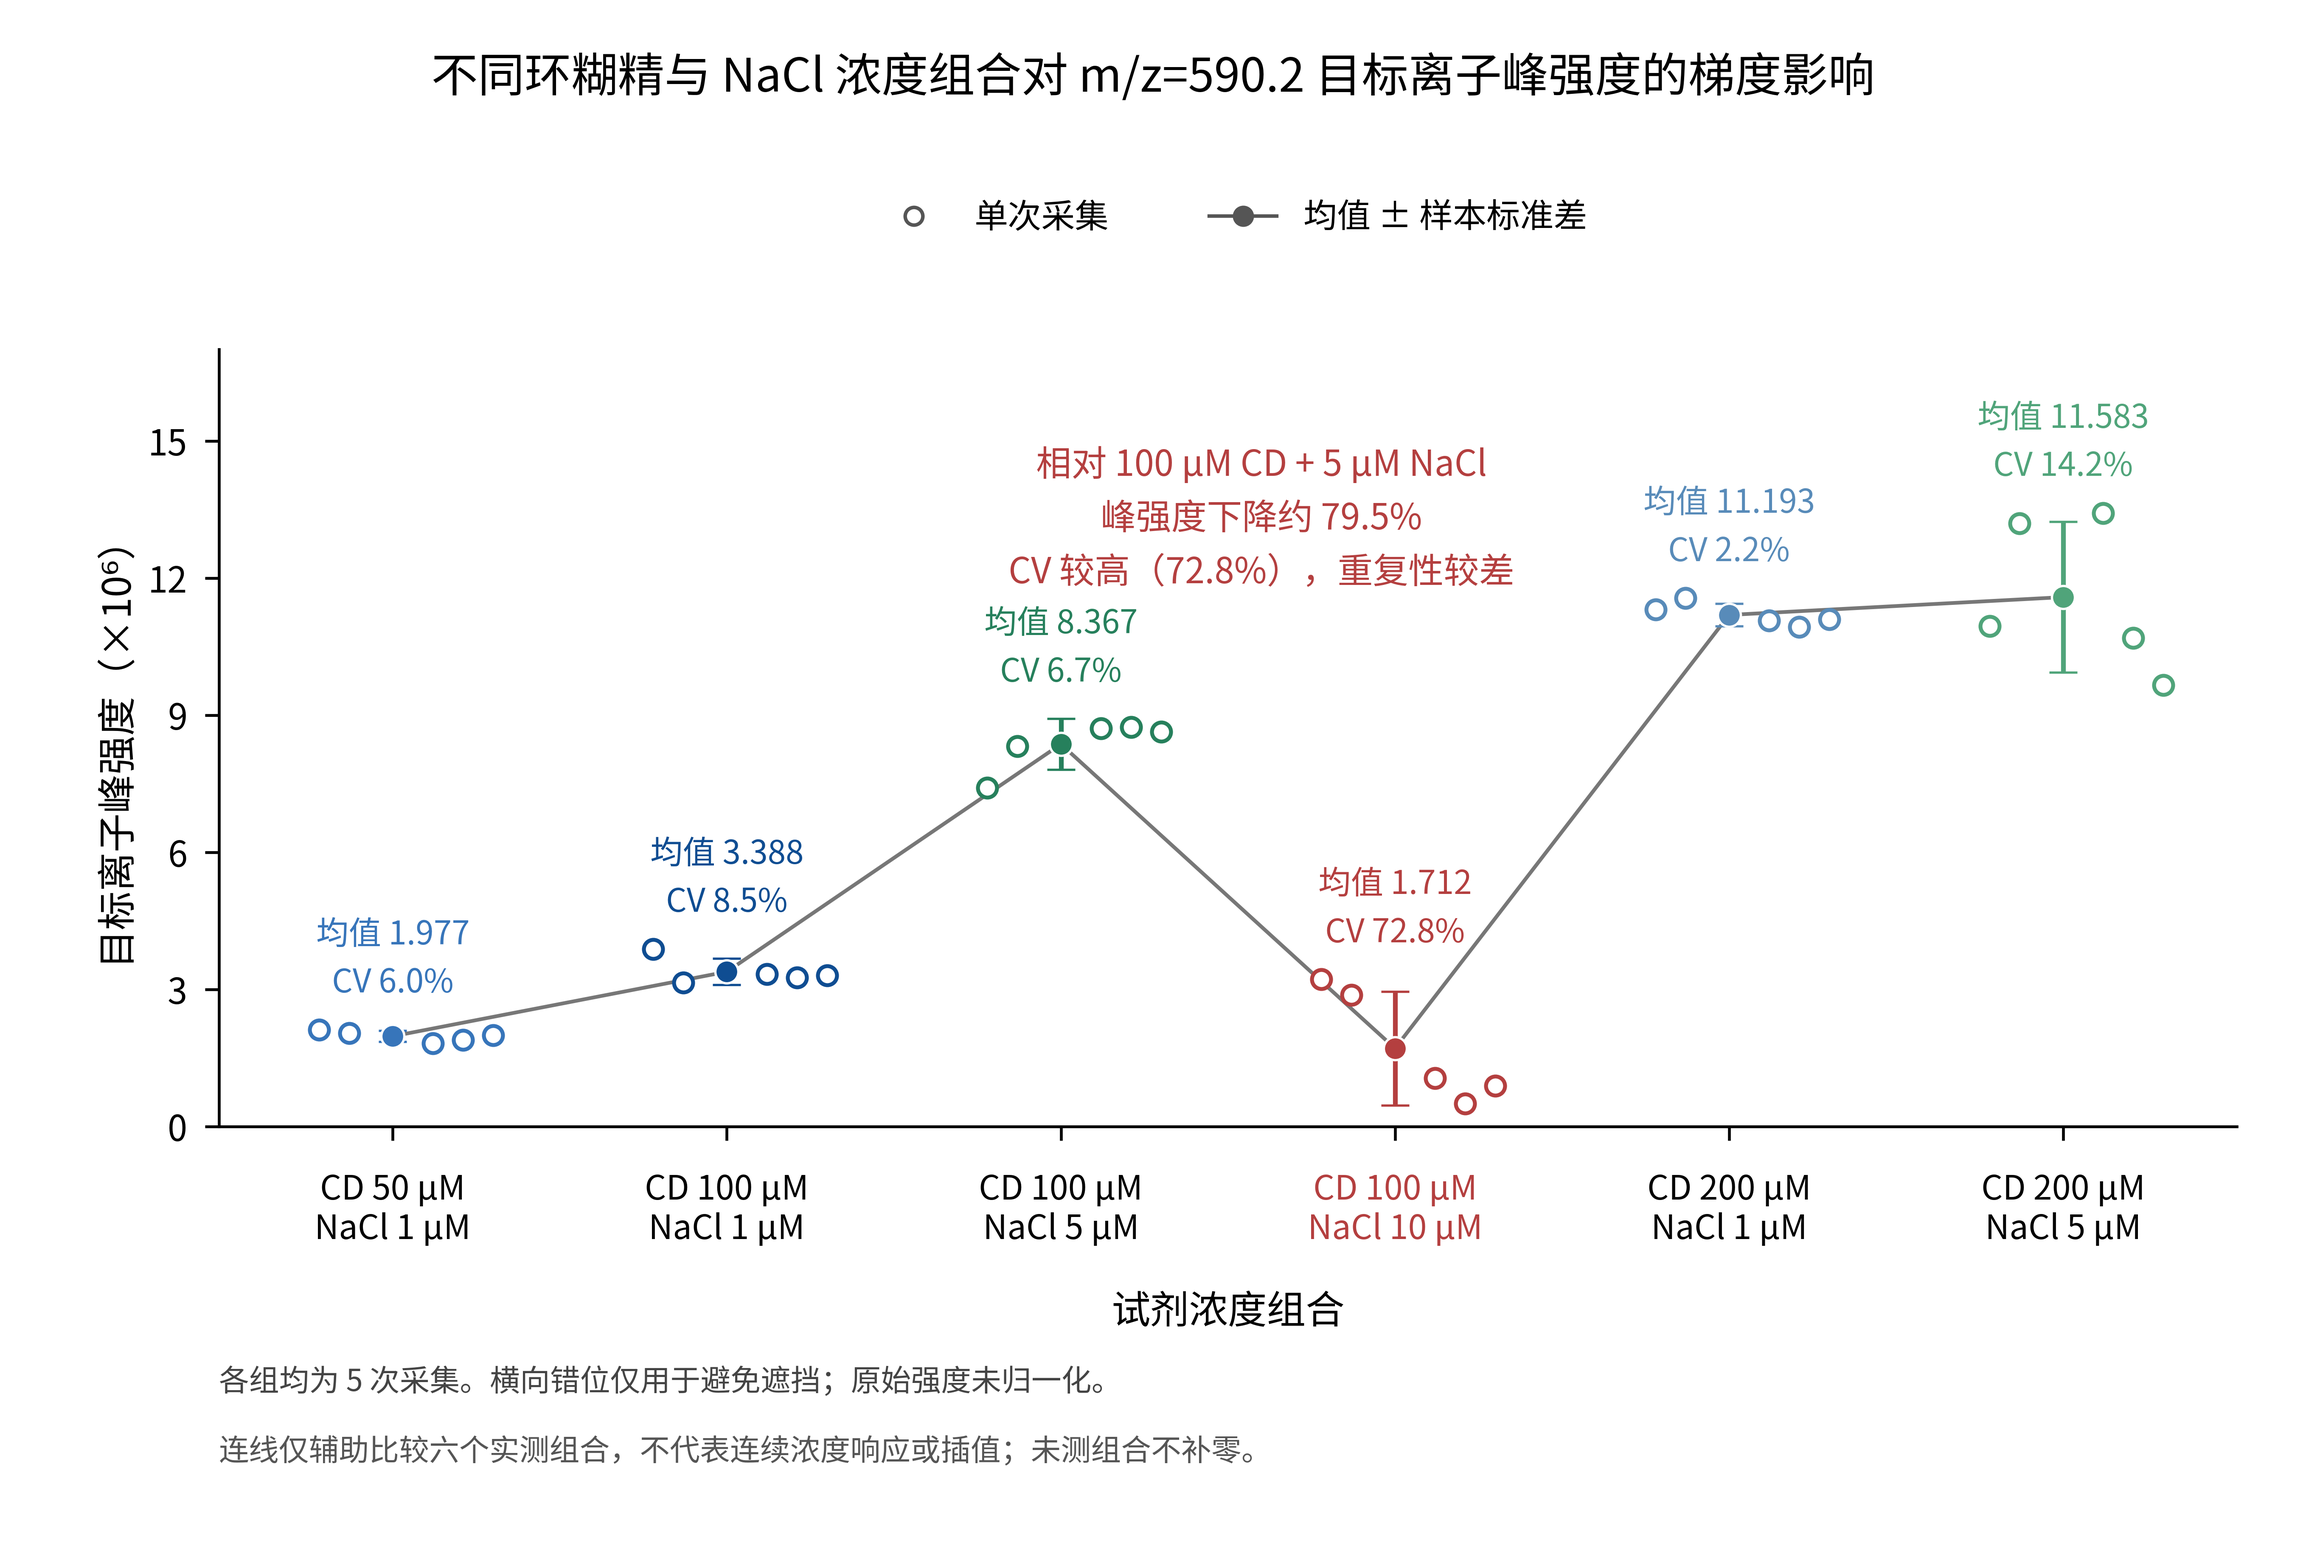
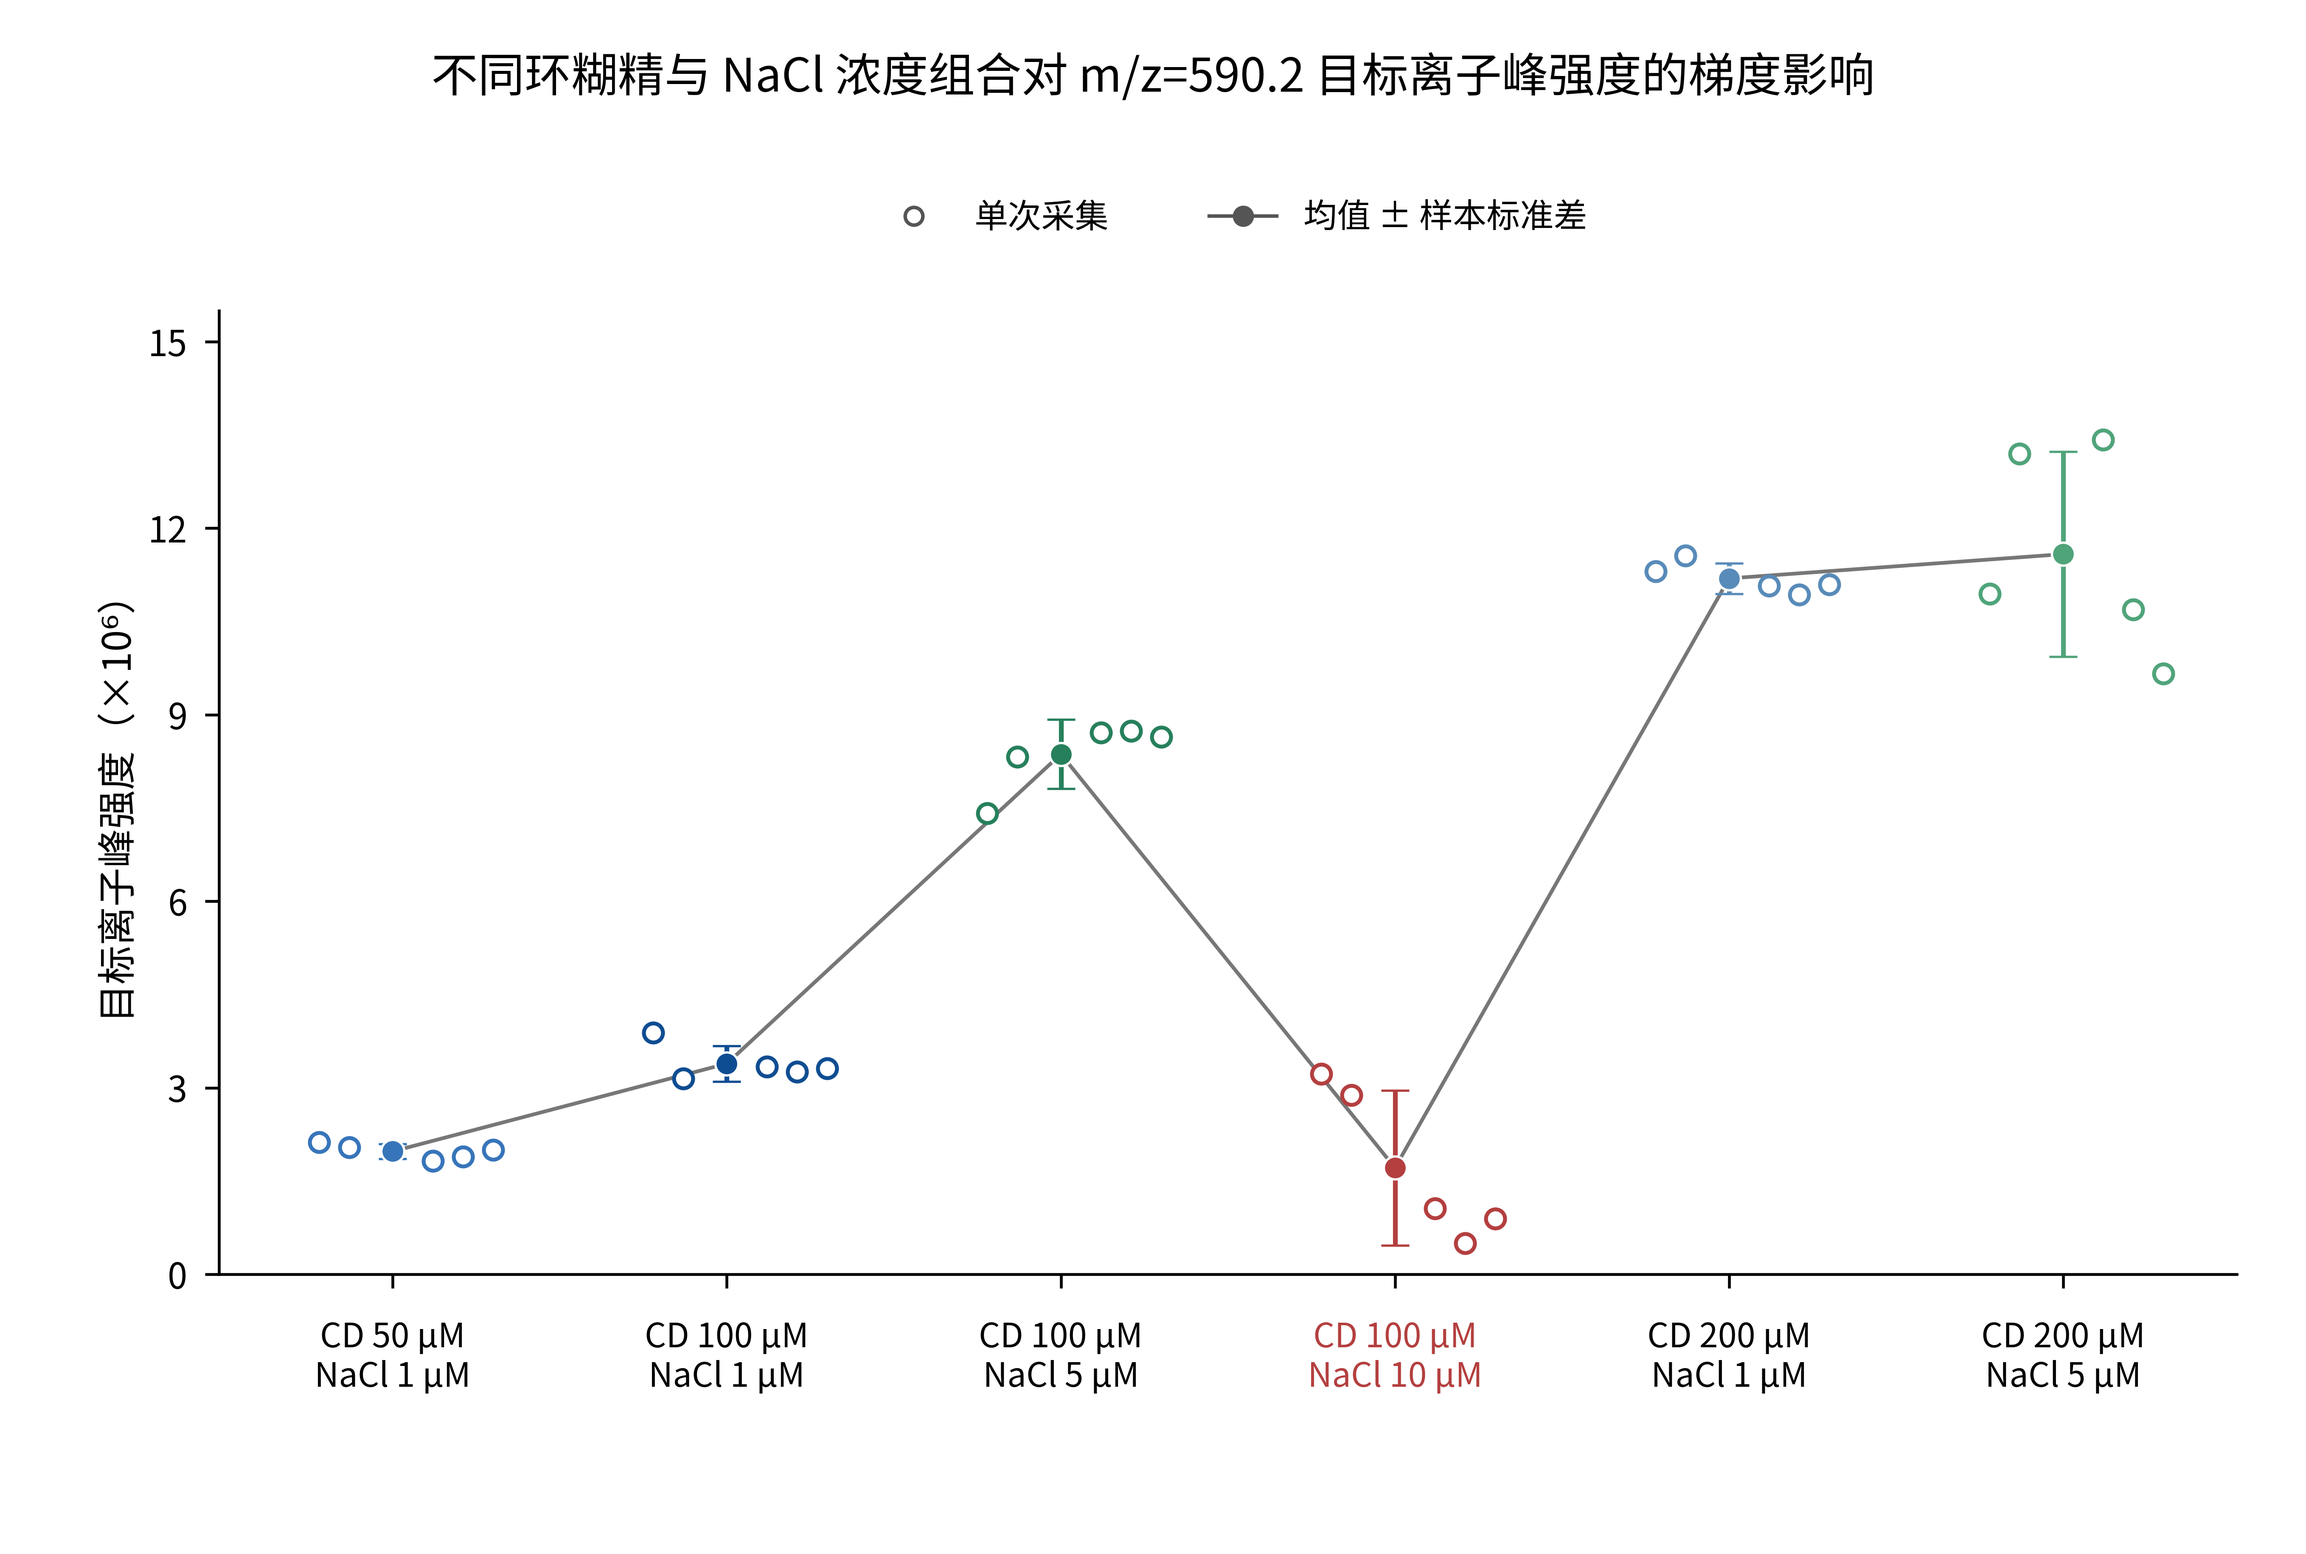
Move mean and CV labels into a separate table and simplify figure text

diff --git a/results/cd-nacl-categorical-chinese/plot_figure.py b/results/cd-nacl-categorical-chinese/plot_figure.py
@@ -20,7 +20,7 @@ s=s.set_index(['CD_uM','NaCl_uM']).loc[order].reset_index()
 assert len(s)==6 and len(p)==s.n.sum()
 colors=['#3775BA','#0F4D92','#26805C','#B43F3F','#588BB9','#50A47A']
 fig,ax=plt.subplots(figsize=(230/25.4,155/25.4))
-fig.subplots_adjust(left=.095,right=.97,bottom=.275,top=.775)
+fig.subplots_adjust(left=.095,right=.97,bottom=.18,top=.80)
 fig.suptitle('不同环糊精与 NaCl 浓度组合对 m/z=590.2 目标离子峰强度的梯度影响',fontsize=13.2,y=.965)
 # Equal spacing denotes named experimental categories, not a continuous concentration axis.
 xs=np.arange(1,7,dtype=float)
@@ -39,26 +39,18 @@ for i,(row,color) in enumerate(zip(s.itertuples(),colors),1):
     raw=ax.scatter(i+offset,vals,s=29,facecolors='white',edgecolors=color,linewidths=1.1,zorder=3)
     all_drawn.extend(raw.get_offsets()[:,1].tolist())
     ax.errorbar(i,row.mean_million,yerr=row.SD_million,fmt='o',color=color,ms=6.5,mec='white',mew=.65,elinewidth=1.35,capsize=4,capthick=1.1,zorder=5)
-    top=max(vals.max(),row.mean_million+row.SD_million)
-    ax.text(i,top+.65,f'均值 {row.mean_million:.3f}\nCV {row.CV_percent:.1f}%',ha='center',va='bottom',fontsize=9.2,color=color,linespacing=1.55)
 labels=[f'CD {cd} μM\nNaCl {salt} μM' for cd,salt in order]
 ax.set_xticks(xs,labels,fontsize=9.5);ax.tick_params(axis='x',pad=9,length=4)
 ax.get_xticklabels()[3].set_color(colors[3]);ax.get_xticklabels()[3].set_fontweight('bold')
-ax.set(xlim=(.48,6.52),ylim=(0,17),xlabel='试剂浓度组合',ylabel='目标离子峰强度（×10⁶）')
-ax.xaxis.labelpad=13;ax.set_yticks([0,3,6,9,12,15]);ax.tick_params(axis='y',length=4,pad=5)
+ax.set(xlim=(.48,6.52),ylim=(0,15.5),xlabel='',ylabel='目标离子峰强度（×10⁶）')
+ax.set_yticks([0,3,6,9,12,15]);ax.tick_params(axis='y',length=4,pad=5)
 ax.spines[['top','right']].set_visible(False)
-red=colors[3];drop=audit['CD100_decrease_10_vs_5_percent'];cv=audit['CD100_NaCl10_CV_percent']
-max4=p[(p.CD_uM==100)&(p.NaCl_uM==10)].peak_intensity_au.max()/1e6
-note=f'相对 100 μM CD + 5 μM NaCl\n峰强度下降约 {drop:.1f}%\nCV 较高（{cv:.1f}%），重复性较差'
-ax.text(3.6,13.3,note,ha='center',va='center',fontsize=10,color=red,linespacing=1.6,zorder=6)
 legend=[Line2D([],[],color='#777777',marker='o',mfc='white',mec='#555555',ls='none',ms=5,label='单次采集'),Line2D([],[],color='#555555',marker='o',lw=1,ms=5,label='均值 ± 样本标准差')]
 fig.legend(handles=legend,loc='upper center',bbox_to_anchor=(.535,.89),ncol=2,frameon=False,fontsize=9.5,columnspacing=3,handlelength=2)
-counts='各组均为 5 次采集。' if (s.n==5).all() else '各组按文件实际采集列数显示。'
-fig.text(.095,.105,counts+'横向错位仅用于避免遮挡；原始强度未归一化。',fontsize=8.5,color='#444444')
-fig.text(.095,.060,'连线仅辅助比较六个实测组合，不代表连续浓度响应或插值；未测组合不补零。',fontsize=8.5,color='#555555')
 assert len(all_drawn)==len(p) and np.allclose(sorted(all_drawn),sorted(p.peak_intensity_au.to_numpy()/1e6))
-assert p.peak_intensity_au.max()/1e6<17 and (s.mean_million-s.SD_million).min()>0 and (s.mean_million+s.SD_million).max()<17
+assert p.peak_intensity_au.max()/1e6<15.5 and (s.mean_million-s.SD_million).min()>0 and (s.mean_million+s.SD_million).max()<15.5
 assert len(fig.axes)==1 and np.allclose(line.get_ydata(),s.mean_million)
+assert not ax.texts and ax.get_xlabel()==''
 with warnings.catch_warnings():
     warnings.filterwarnings('error',message='Glyph .* missing from font')
     fig.savefig(BASE/'六组试剂浓度组合_中文梯度散点图.png',dpi=600)

diff --git a/results/cd-nacl-categorical-chinese/export_statistics_table.py b/results/cd-nacl-categorical-chinese/export_statistics_table.py
@@ -1,0 +1,31 @@
+from pathlib import Path
+import pandas as pd
+from openpyxl.styles import Font, PatternFill, Alignment, Border, Side
+BASE=Path(__file__).resolve().parent
+order=[(50,1),(100,1),(100,5),(100,10),(200,1),(200,5)]
+s=pd.read_csv(BASE/'summary.csv').set_index(['CD_uM','NaCl_uM']).loc[order].reset_index()
+table=pd.DataFrame({'试剂浓度组合':[f'CD {r.CD_uM} μM + NaCl {r.NaCl_uM} μM' for r in s.itertuples()], '均值（×10⁶）':s.mean_million, 'CV（%）':s.CV_percent})
+# Keep full precision in the cells; display as in the original annotations.
+with pd.ExcelWriter(BASE/'均值与CV汇总表.xlsx',engine='openpyxl') as writer:
+ table.to_excel(writer,sheet_name='均值与CV',index=False)
+ ws=writer.sheets['均值与CV'];ws.freeze_panes='A2';ws.auto_filter.ref='A1:C7'
+ ws.column_dimensions['A'].width=37;ws.column_dimensions['B'].width=20;ws.column_dimensions['C'].width=17
+ for row in ws:
+  for cell in row:
+   cell.font=Font(name='微软雅黑',size=11)
+   cell.alignment=Alignment(horizontal='left' if cell.column==1 else 'center',vertical='center')
+   cell.border=Border(bottom=Side(style='hair',color='DDDDDD'))
+ for cell in ws[1]:
+  cell.font=Font(name='微软雅黑',size=11,bold=True,color='FFFFFF');cell.fill=PatternFill('solid',fgColor='345A7C')
+ ws.row_dimensions[1].height=26
+ for i in range(2,8):
+  ws.row_dimensions[i].height=25;ws.cell(i,2).number_format='0.000';ws.cell(i,3).number_format='0.0'
+  if i%2==0:
+   for cell in ws[i]:cell.fill=PatternFill('solid',fgColor='F4F7FA')
+ ws.print_options.horizontalCentered=True;ws.sheet_properties.pageSetUpPr.fitToPage=True
+ ws.page_setup.orientation='landscape';ws.page_setup.paperSize=ws.PAPERSIZE_A4;ws.page_setup.fitToWidth=1;ws.page_setup.fitToHeight=1
+ ws.print_area='A1:C7'
+table.to_csv(BASE/'均值与CV汇总表.csv',index=False,encoding='utf-8-sig')
+roundtrip=pd.read_excel(BASE/'均值与CV汇总表.xlsx')
+pd.testing.assert_frame_equal(roundtrip,table,check_exact=False,rtol=1e-13)
+print(table.to_string(index=False));print('PASS: full-precision mean/CV workbook verified')
